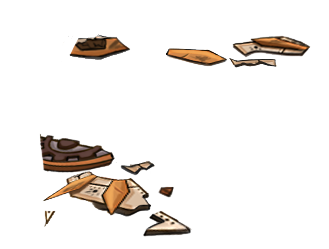
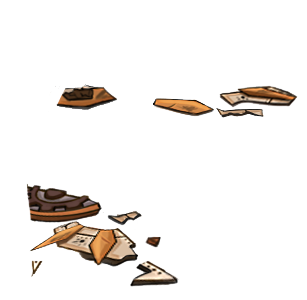
reimport door assets add front accessories add AttackPoint for enemy movement

diff --git a/Valiant Guardian - Demon Invasion/Assets/Scripts/Enemy/Enemy.cs b/Valiant Guardian - Demon Invasion/Assets/Scripts/Enemy/Enemy.cs
@@ -36,7 +36,6 @@ public class Enemy : MonoBehaviour
     void Start()
     {
         baseDoor = GameObject.FindGameObjectWithTag("Base").transform;
-        baseDoorPositionOffset = new Vector3(0.0f, 0.6f, 0.0f);
         playerBase = GameObject.Find("PlayerBase").transform;
         anim = GetComponent<Animator>();
         sightStart = this.transform;
@@ -58,7 +57,7 @@ public class Enemy : MonoBehaviour
             //Debug.DrawLine (sightStart.position, sightEnd.position, Color.green);
             if (moveToDoor && !foundDoor)
             {
-                transform.position = Vector3.MoveTowards(transform.position, baseDoor.position - baseDoorPositionOffset, step);
+                transform.position = Vector3.MoveTowards(transform.position, baseDoor.FindChild("AttackPoint").position, step);
             }
             else if (foundDoor)
             {
